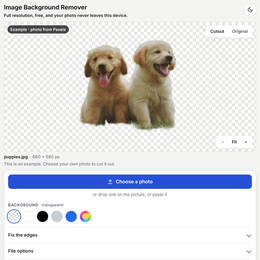
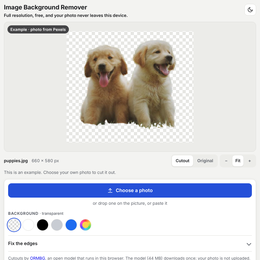
Background remover: checkerboard only where the file is transparent
The checkerboard is now drawn inside the picture and only when the result is
transparent, so a white JPG preview is white. The credit line no longer wears
a success tick through failures. A failed download says so once. The edge hint
names both brushes. Dimmed swatches keep their colours, and the phone error
keeps its Choose button.

Claude-Session: https://claude.ai/code/session_01MGfLZaaqpa6Y2TbbH9MDcc

diff --git a/tools/image_background_remover.html b/tools/image_background_remover.html
@@ -46,7 +46,7 @@ h1{font-size:22px;line-height:1.2;margin:0;letter-spacing:-.01em;font-weight:700
 .app{display:grid;grid-template-columns:minmax(0,1fr) 316px;gap:16px;align-items:start}
 .stage-col{min-width:0}
 #stage{position:relative;height:min(72vh,720px);min-height:320px;border-radius:var(--radius);overflow:hidden;border:1px solid var(--line);
-  background-color:var(--chk-a);background-image:conic-gradient(var(--chk-b) 25%,transparent 0 50%,var(--chk-b) 0 75%,transparent 0);background-size:20px 20px;
+  background:var(--soft);
   touch-action:none;user-select:none;-webkit-user-select:none;outline:none}
 #stage:focus-visible{box-shadow:0 0 0 3px var(--accent)}
 #view{position:absolute;inset:0;width:100%;height:100%;display:block}
@@ -129,7 +129,8 @@ h1{font-size:22px;line-height:1.2;margin:0;letter-spacing:-.01em;font-weight:700
 .size-row output{font-size:13px;font-variant-numeric:tabular-nums;width:52px;white-space:nowrap;text-align:right;color:var(--muted)}
 .undo-row{display:flex;gap:6px;margin-top:10px}
 .undo-row[hidden]{display:none}
-.idle{opacity:.4;transition:opacity .2s}
+.idle{opacity:.55;filter:grayscale(.15);transition:opacity .2s}
+.idle .swatches{opacity:1}
 .fix .group{margin-top:14px}
 .undo-row .btn{min-height:38px;padding:6px 10px;flex:1;font-weight:500}
 details{border-top:1px solid var(--line);padding-top:14px}
@@ -141,7 +142,6 @@ details[open] summary::after{transform:rotate(-135deg)}
 .opts label{display:flex;align-items:center;gap:8px}
 .opts input[type=checkbox]{width:18px;height:18px;accent-color:var(--accent)}
 .trust{font-size:12.5px;color:var(--muted);border-top:1px solid var(--line);padding-top:12px;margin:0}
-.trust svg{width:14px;height:14px;vertical-align:-2px;margin-right:4px;color:var(--ok)}
 .sr{position:absolute!important;width:1px;height:1px;overflow:hidden;clip:rect(0 0 0 0);white-space:nowrap}
 footer{margin-top:22px;font-size:12.5px;color:var(--muted)}
 footer a{color:inherit}
@@ -158,7 +158,6 @@ footer a{color:inherit}
   .panel{padding:12px;gap:14px}
   #notice{padding:10px 12px}
   #notice p{margin-bottom:8px}
-  #noticeAct{display:none}
 }
 @media (prefers-reduced-motion:reduce){*,*::before,*::after{animation-duration:.01ms!important;transition-duration:.01ms!important}}
 </style>
@@ -269,7 +268,7 @@ footer a{color:inherit}
 
     <button class="linkish" type="button" id="newBtn">Forget this photo and show the example</button>
 
-    <p class="trust"><svg viewBox="0 0 24 24" fill="none" stroke="currentColor" stroke-width="2.4" stroke-linecap="round" stroke-linejoin="round"><path d="M5 12l5 5 9-10"/></svg>Cut out by <a href="https://huggingface.co/onnx-community/ormbg-ONNX" target="_blank" rel="noopener">ORMBG</a>, an open model that runs in this browser. The model (44 MB) downloads once; your photo is not uploaded.</p>
+    <p class="trust">Cutouts by <a href="https://huggingface.co/onnx-community/ormbg-ONNX" target="_blank" rel="noopener">ORMBG</a>, an open model that runs in this browser. The model (44 MB) downloads once; your photo is not uploaded.</p>
   </aside>
 </main>
 </div>
@@ -776,7 +775,7 @@ function setPicture(p) {
   $('metaSize').textContent = BG.formatSize(S.w, S.h) + (S.note ? ' · ' + S.note : '');
   $('pickBtn').classList.toggle('primary', !!S.example);
   $('pickLabel').textContent = S.example ? 'Choose a photo' : 'Choose another photo';
-  $('outActions').hidden = !!S.example; $('fmtRow').hidden = !!S.example; $('trimRow').hidden = !!S.example; $('newBtn').hidden = !!S.example;
+  $('outActions').hidden = !!S.example; $('fmtRow').hidden = !!S.example; $('trimRow').hidden = !!S.example;
   cropBox = undefined;
   sizeStage();
   updateButtons();
@@ -803,7 +802,7 @@ function checkCoverage() {
   var c = BG.coverage(S.out);
   if (c < 0.003) setStatus('No clear subject found. Paint it back with Restore, or try a photo where the subject stands apart from the background.', true);
   else if (c > 0.985) setStatus('Almost the whole picture was kept: the subject may fill the frame. Use Erase for what should go.', true);
-  else if (!S.example && faintShare() > 0.12) { setStatus('Done. Some parts came out faint: paint them back with Restore under “Fix the edges”.'); $('fixBox').open = true; }
+  else if (!S.example && faintShare() > 0.12) { setStatus('Done. Some edges are unsure: under “Fix the edges”, Erase what should go and Restore what came out faint.'); $('fixBox').open = true; }
   else setStatus(S.example ? 'This is an example. Choose your own photo to cut it out.' : 'Done. Check the edges, then download.');
 }
 
@@ -841,7 +840,16 @@ function zoomAt(f, cx, cy) {
   $('zoomFit').setAttribute('aria-pressed', 'false');
   draw();
 }
-var cursor = null, cropBox;
+var cursor = null, cropBox, chk = null, chkKey = '';
+function checker() {
+  var a = cssVar('--chk-a'), b = cssVar('--chk-b'), k = a + b;
+  if (!chk || chkKey !== k) {
+    var c = makeCanvas(20, 20), x = c.getContext('2d');
+    x.fillStyle = a; x.fillRect(0, 0, 20, 20); x.fillStyle = b; x.fillRect(0, 0, 10, 10); x.fillRect(10, 10, 10, 10);
+    chk = ctx.createPattern(c, 'repeat'); chkKey = k;
+  }
+  return chk;
+}
 function cssVar(n) { return getComputedStyle(document.documentElement).getPropertyValue(n).trim(); }
 function draw() {
   ctx.setTransform(1, 0, 0, 1, 0, 0);
@@ -852,7 +860,9 @@ function draw() {
   ctx.imageSmoothingEnabled = view.scale < 2; ctx.imageSmoothingQuality = 'high';
   var bg = currentBg();
   var drawCut = function () {
-    if (bg) { ctx.fillStyle = BG.toHex(bg); ctx.fillRect(x, y, w, h); }
+    // The checkerboard is drawn only where the file will really be transparent: inside the picture, with no colour.
+    if (bg) ctx.fillStyle = BG.toHex(bg); else ctx.fillStyle = checker();
+    ctx.fillRect(x, y, w, h);
     if (S.fg) ctx.drawImage(S.canvas, x, y, w, h);
     else ctx.drawImage(S.origCanvas, x, y, w, h);
   };
@@ -976,6 +986,7 @@ function updateButtons() {
   var ready0 = !!(S && S.fg); var ready = ready0;
   $('showSeg').hidden = !ready && !(S && S.example);
   $('chip').hidden = !(S && S.example);
+  $('newBtn').hidden = !(S && !S.example && S.fg);
   var groups = document.querySelectorAll('.needs-cut');
   for (var gi = 0; gi < groups.length; gi++) { groups[gi].classList.toggle('idle', !ready); groups[gi].inert = !ready; }
   $('dlBtn').disabled = !ready; $('copyBtn').disabled = !ready;
@@ -1202,7 +1213,7 @@ async function segment(token) {
     if (e.cancelled) { setStatus('Cancelled. Choose another photo, or try again.', true); notice('Stopped', 'Nothing was changed. You can try this photo again.', 'Try again', function () { segment(); }); return; }
     var offline = !navigator.onLine || /fetch|network|load|404|Failed/i.test(e.message);
     updateButtons();
-    setStatus('No cutout yet.', true);
+    setStatus('');
     notice(offline ? 'Could not download the model' : 'The cutout did not work',
       offline ? 'The model is fetched once from Hugging Face and then kept by your browser. Check the connection and try again.' : 'Your browser ran out of memory or stopped the work (' + e.message.slice(0, 120) + '). A smaller photo usually works.',
       'Try again', function () { segment(); }, true);
